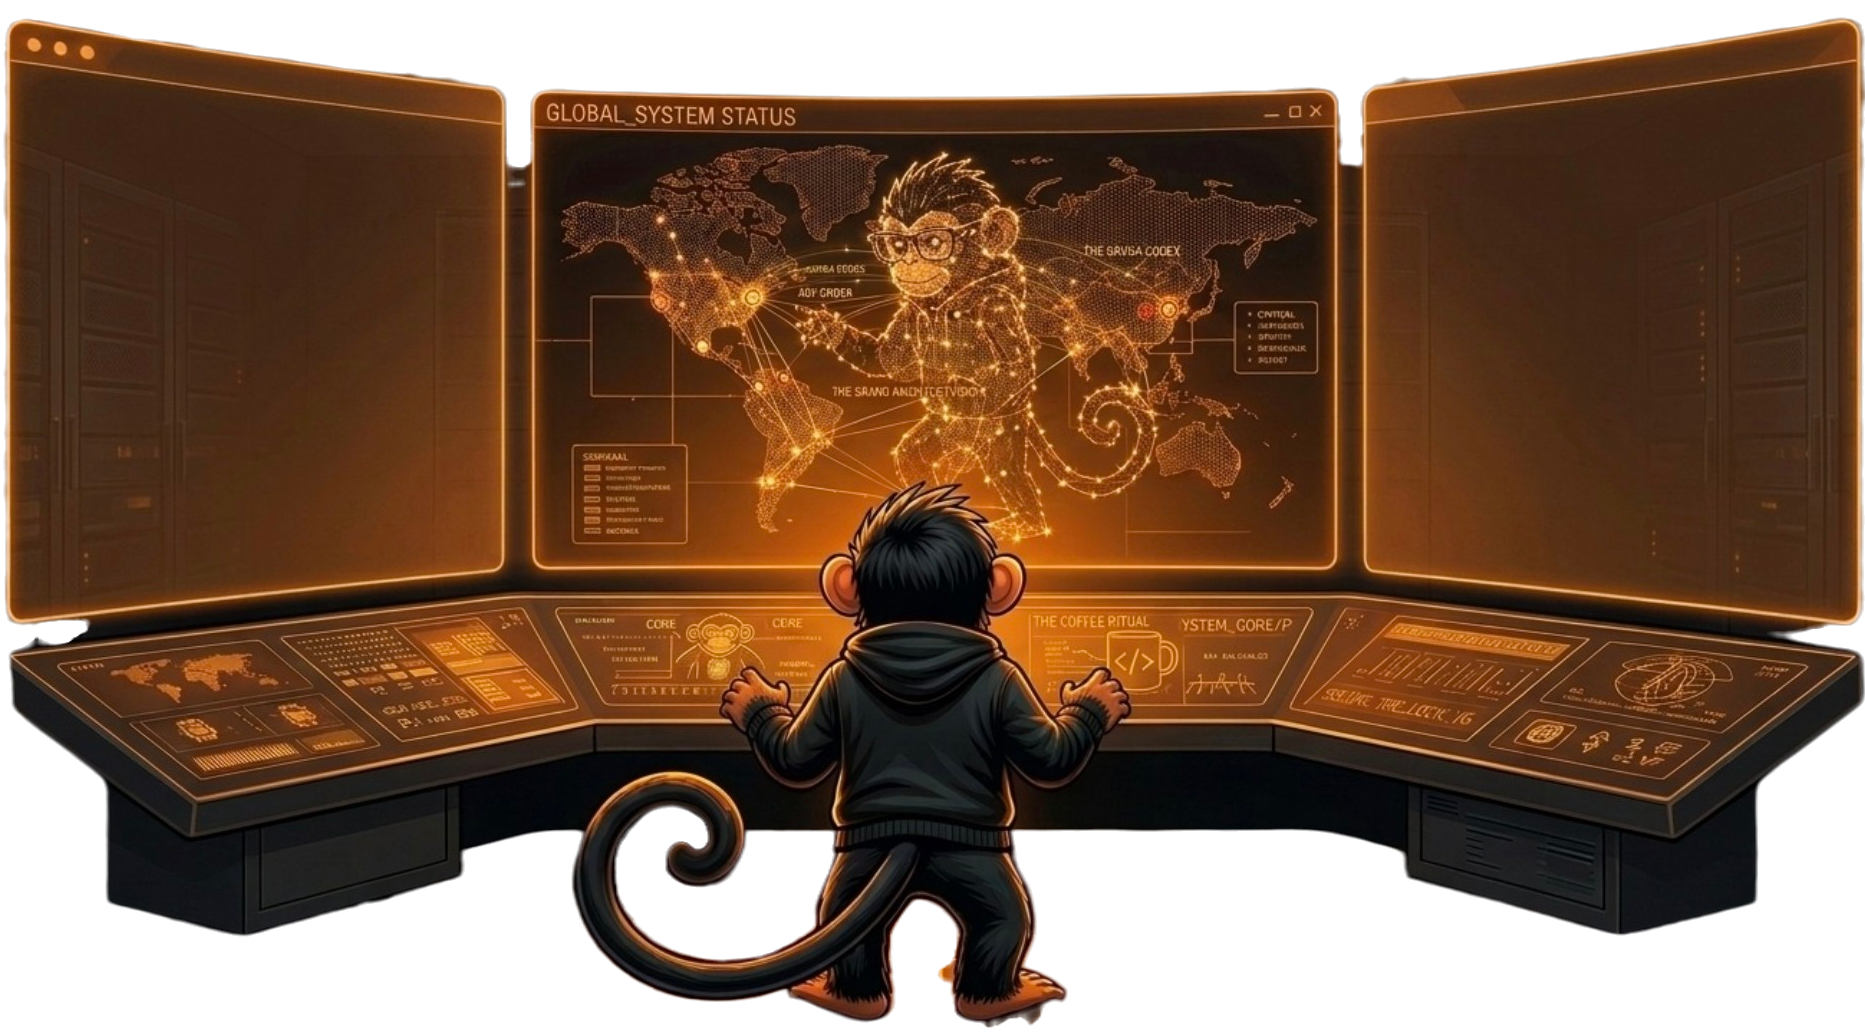
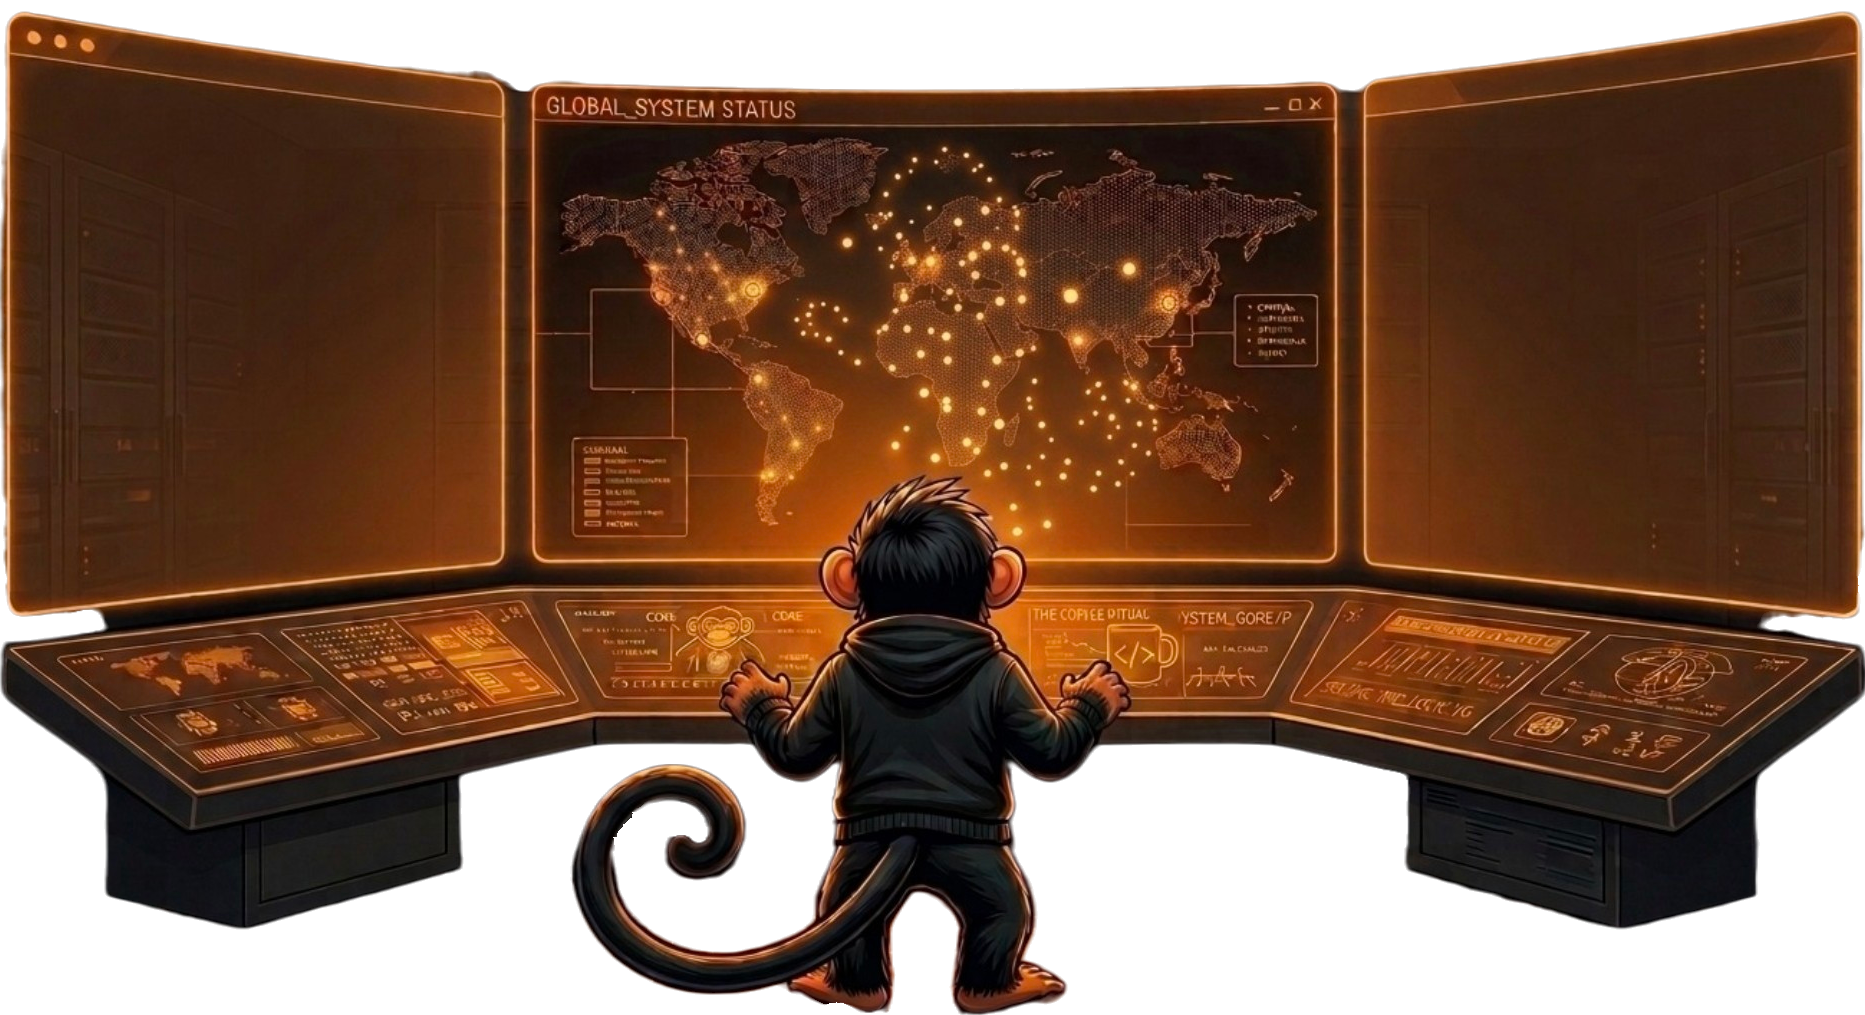
fix: update section paddings and margins for improved layout consistency

Changed region(s): [[0.0, 0.0, 1.0, 1.0], [0.0, 0.1527, 0.0311, 0.4887]]

diff --git a/src/styles/responsive.css b/src/styles/responsive.css
@@ -117,7 +117,7 @@
   }
 
   .contact-section {
-    margin-top: -64px;
+    margin-top: -40px;
   }
 
   .client-logo-showcase {
@@ -297,11 +297,11 @@
   }
 
   .services-section {
-    padding: 64px 0 52px;
+    padding: 76px 0 66px;
   }
 
   .pain-section {
-    padding: 58px 0 0;
+    padding: 72px 0 0;
   }
 
   .section-heading {
@@ -353,7 +353,7 @@
   }
 
   .entry-section {
-    padding: 0 0 62px;
+    padding: 18px 0 76px;
   }
 
   .process-section {
@@ -364,8 +364,8 @@
   .clients-section {
     min-height: auto;
     margin-inline: auto;
-    margin-bottom: -34px;
-    padding: 20px 0 0;
+    margin-bottom: -18px;
+    padding: 34px 0 0;
   }
 
   .client-logo-showcase {
@@ -393,7 +393,7 @@
   .contact-section {
     width: min(100% - 36px, 402px);
     max-width: 402px;
-    margin-top: -28px;
+    margin-top: 8px;
     margin-bottom: calc(20px + env(safe-area-inset-bottom));
     padding: 20px;
   }

diff --git a/src/styles/sections/clients.css b/src/styles/sections/clients.css
@@ -4,8 +4,8 @@
   flex-direction: column;
   align-items: center;
   justify-content: center;
-  margin: 8px 0 -42px;
-  padding: 24px 0 0;
+  margin: 44px 0 -24px;
+  padding: 38px 0 0;
   border: 0;
   border-radius: 0;
   background: transparent;

diff --git a/src/styles/sections/shared-sections.css b/src/styles/sections/shared-sections.css
@@ -8,11 +8,11 @@
 }
 
 .pain-section {
-  padding: 98px 0 0;
+  padding: 124px 0 0;
 }
 
 .services-section {
-  padding: 110px 0 86px;
+  padding: 126px 0 108px;
 }
 
 .section-heading {

diff --git a/src/styles/sections/contact.css b/src/styles/sections/contact.css
@@ -3,7 +3,7 @@
   grid-template-columns: minmax(0, 1fr) minmax(180px, 260px);
   align-items: center;
   gap: clamp(28px, 5vw, 72px);
-  margin-top: -112px;
+  margin-top: -72px;
   margin-bottom: 18px;
   padding: 38px;
   border: 1px solid rgba(255, 106, 0, 0.32);

diff --git a/src/styles/sections/entry.css b/src/styles/sections/entry.css
@@ -1,5 +1,5 @@
 .entry-section {
-  padding: 0 0 98px;
+  padding: 24px 0 128px;
 }
 
 .entry-card {